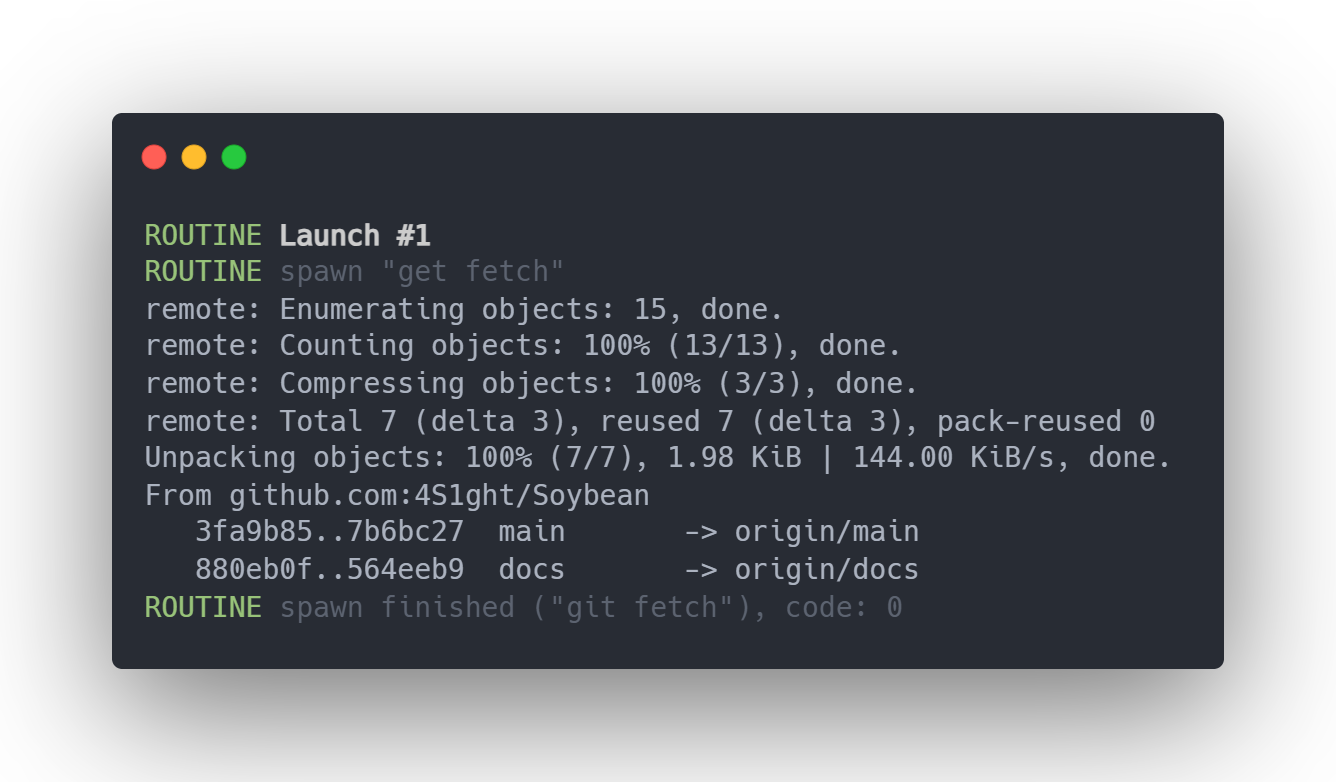
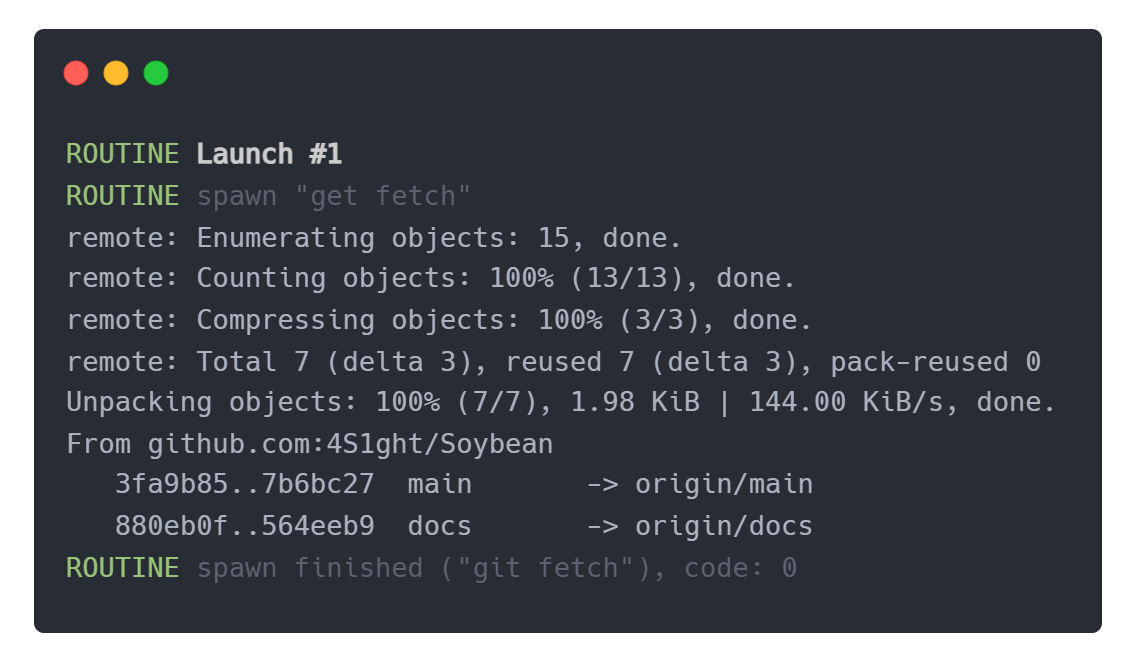
[ref] Updated launch routine snippet

diff --git a/README.md b/README.md
@@ -114,5 +114,5 @@ Soybean({
 
 <!-- 
 GIT FETCH LAUNCH ROUTINE SNIPPET
-https://carbon.now.sh/?bg=rgba%280%2C0%2C0%2C0%29&t=one-dark&wt=none&l=auto&width=667.5999997854233&ds=true&dsyoff=20px&dsblur=68px&wc=true&wa=false&pv=56px&ph=56px&ln=false&fl=1&fm=Hack&fs=14px&lh=133%25&si=false&es=2x&wm=false&code=ROUTINE%2520Launch%2520%25231%250AROUTINE%2520spawn%2520%2522get%2520fetch%2522%250Aremote%253A%2520Enumerating%2520objects%253A%252015%252C%2520done.%250Aremote%253A%2520Counting%2520objects%253A%2520100%2525%2520%2813%252F13%29%252C%2520done.%250Aremote%253A%2520Compressing%2520objects%253A%2520100%2525%2520%283%252F3%29%252C%2520done.%250Aremote%253A%2520Total%25207%2520%28delta%25203%29%252C%2520reused%25207%2520%28delta%25203%29%252C%2520pack-reused%25200%250AUnpacking%2520objects%253A%2520100%2525%2520%287%252F7%29%252C%25201.98%2520KiB%2520%257C%2520144.00%2520KiB%252Fs%252C%2520done.%250AFrom%2520github.com%253A4S1ght%252FSoybean%250A%2520%2520%25203fa9b85..7b6bc27%2520%2520main%2520%2520%2520%2520%2520%2520%2520-%253E%2520origin%252Fmain%250A%2520%2520%2520880eb0f..564eeb9%2520%2520docs%2520%2520%2520%2520%2520%2520%2520-%253E%2520origin%252Fdocs%250AROUTINE%2520spawn%2520finished%2520%28%2522git%2520fetch%2522%29%252C%2520code%253A%25200 
+https://carbon.now.sh/?bg=rgba%28248%2C231%2C28%2C0%29&t=one-dark&wt=none&l=auto&width=667.5999997854233&ds=false&dsyoff=20px&dsblur=68px&wc=true&wa=true&pv=15px&ph=17px&ln=false&fl=1&fm=Hack&fs=13.5px&lh=153%25&si=false&es=2x&wm=false&code=ROUTINE%2520Launch%2520%25231%250AROUTINE%2520spawn%2520%2522get%2520fetch%2522%250Aremote%253A%2520Enumerating%2520objects%253A%252015%252C%2520done.%250Aremote%253A%2520Counting%2520objects%253A%2520100%2525%2520%2813%252F13%29%252C%2520done.%250Aremote%253A%2520Compressing%2520objects%253A%2520100%2525%2520%283%252F3%29%252C%2520done.%250Aremote%253A%2520Total%25207%2520%28delta%25203%29%252C%2520reused%25207%2520%28delta%25203%29%252C%2520pack-reused%25200%250AUnpacking%2520objects%253A%2520100%2525%2520%287%252F7%29%252C%25201.98%2520KiB%2520%257C%2520144.00%2520KiB%252Fs%252C%2520done.%250AFrom%2520github.com%253A4S1ght%252FSoybean%250A%2520%2520%25203fa9b85..7b6bc27%2520%2520main%2520%2520%2520%2520%2520%2520%2520-%253E%2520origin%252Fmain%250A%2520%2520%2520880eb0f..564eeb9%2520%2520docs%2520%2520%2520%2520%2520%2520%2520-%253E%2520origin%252Fdocs%250AROUTINE%2520spawn%2520finished%2520%28%2522git%2520fetch%2522%29%252C%2520code%253A%25200
 -->
